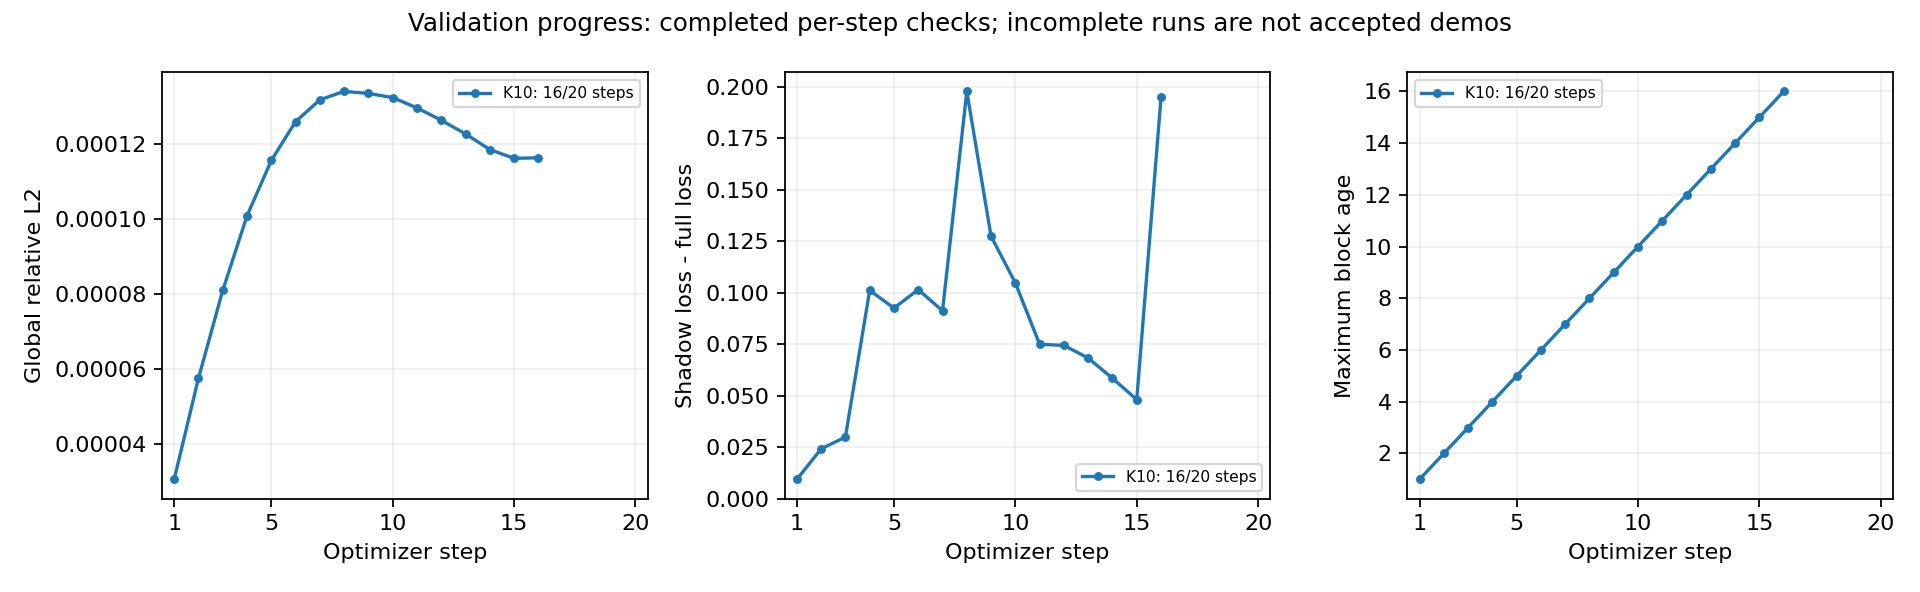
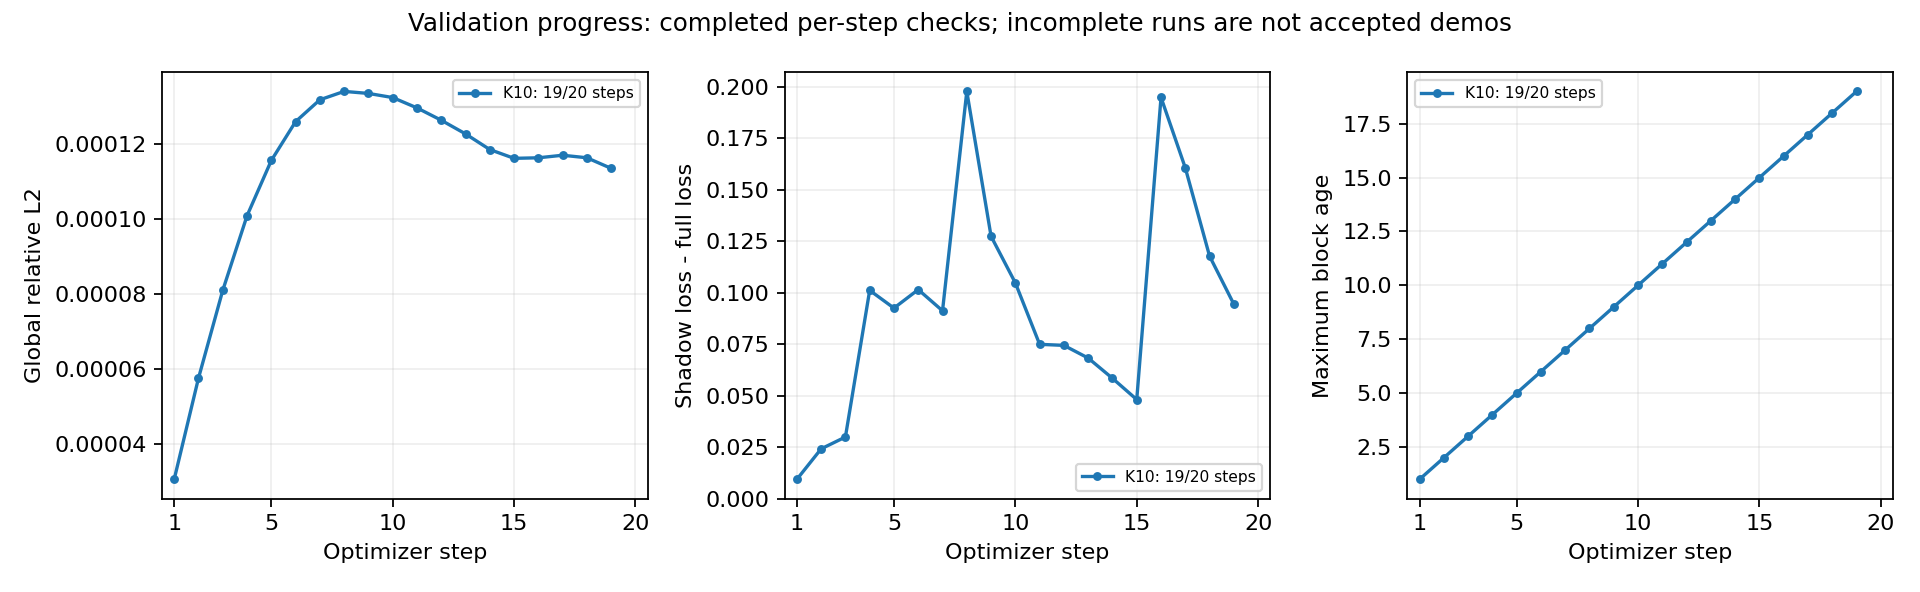
Publish incremental checkpoint progress and measured evidence

diff --git a/results/incremental-phase1-20260916/REPORT.md b/results/incremental-phase1-20260916/REPORT.md
@@ -40,7 +40,7 @@
 | 组 | 校验 step 数 | 末步相对 L2 | 末步 loss 差 | 最大块年龄 |
 |---|---:|---:|---:|---:|
 
-影子状态由实际媒体读回的数据更新；逐块检查映射、覆盖范围及选中值，与设备参考状态交叉核验。误差按真实完整权重计算。未指定质量预算，故只报告误差及组间差异，不宣布质量通过。
+影子状态由实际媒体读回的数据更新；逐块检查映射、覆盖范围及选中值，与设备参考状态交叉核验。误差按真实完整权重计算。固定评估 batch 与训练固定样本相同，衡量状态数值差异，不作为留出集泛化质量指标。未指定质量预算，故只报告误差及组间差异，不宣布质量通过。
 
 ## 成本与空间
 
@@ -102,7 +102,7 @@ HBM 导出表只有本次采集汇总：[{"Device_id": "0", "Metric": "Average",
 
 完整状态各卡实存大小（字节）：[{"model": 8191660032, "adam_m": 8191660032, "adam_v": 8191660032, "other": 612}, {"model": 8191660032, "adam_m": 8191660032, "adam_v": 8191660032, "other": 612}, {"model": 8191660032, "adam_m": 8191660032, "adam_v": 8191660032, "other": 612}, {"model": 8191660032, "adam_m": 8191660032, "adam_v": 8191660032, "other": 612}]。
 
-完整状态输出近似量（包含常驻副本，元数据待定）：[{"ratio": 0.05, "payload_bytes": 4914998467.2, "metadata_bytes": null, "policy": "Conservative physical state estimate with replicas; controls always full, tensor tails and small-state policy require exact inventory before extension."}, {"ratio": 0.1, "payload_bytes": 9829994486.4, "metadata_bytes": null, "policy": "Conservative physical state estimate with replicas; controls always full, tensor tails and small-state policy require exact inventory before extension."}, {"ratio": 0.2, "payload_bytes": 19659986524.8, "metadata_bytes": null, "policy": "Conservative physical state estimate with replicas; controls always full, tensor tails and small-state policy require exact inventory before extension."}]。
+完整状态输出近似量（包含常驻副本，元数据待定）：[{"ratio": 0.05, "payload_bytes": 4929053481.6, "metadata_bytes": null, "policy": "Physical state estimate including replicas; all local tensors below 64K elements saved fully. Global TP blocks and selected tails require mapping before extension."}, {"ratio": 0.1, "payload_bytes": 9843309763.2, "metadata_bytes": null, "policy": "Physical state estimate including replicas; all local tensors below 64K elements saved fully. Global TP blocks and selected tails require mapping before extension."}, {"ratio": 0.2, "payload_bytes": 19671822326.4, "metadata_bytes": null, "policy": "Physical state estimate including replicas; all local tensors below 64K elements saved fully. Global TP blocks and selected tails require mapping before extension."}]。
 
 ## 图表
 
